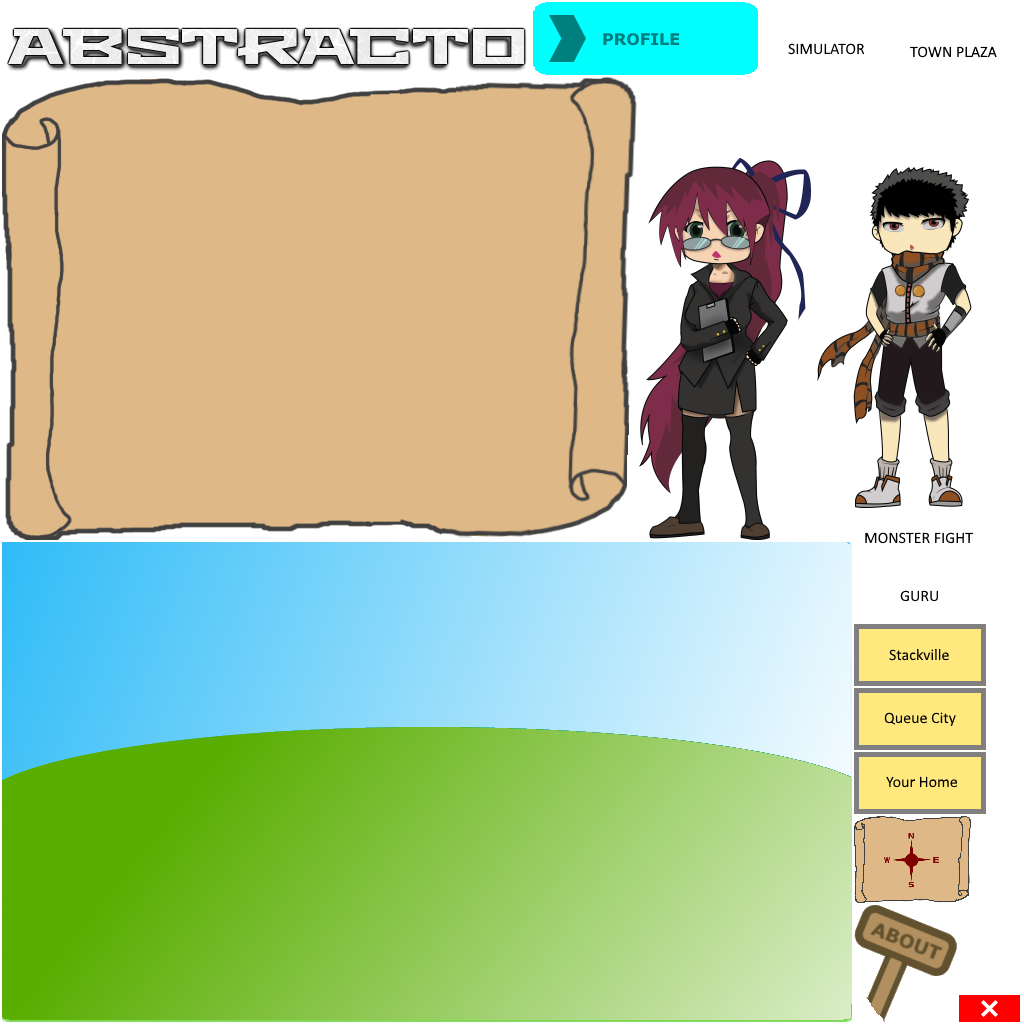
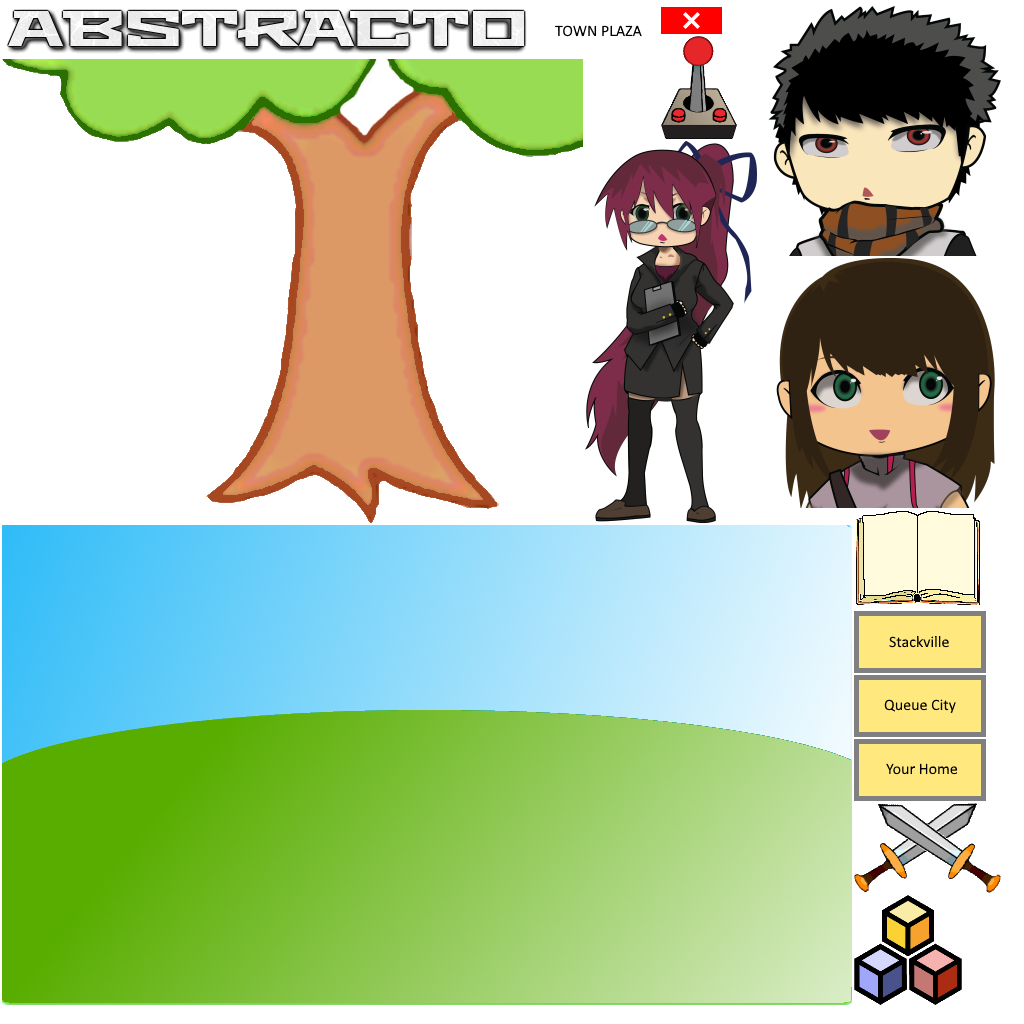
Updated assets

diff --git a/core/src/ics/yudzeen/abstracto/utils/Assets.java b/core/src/ics/yudzeen/abstracto/utils/Assets.java
@@ -136,11 +136,12 @@ public class Assets implements AssetErrorListener, Disposable {
         // Home Screen
         public AtlasRegion map;
 
-        // ADT Screen
-        public AtlasRegion guru;
+        // ADT screens
+        public AtlasRegion applications;
+        public AtlasRegion duel;
+        public AtlasRegion school;  // unnused
         public AtlasRegion simulator;
-        public AtlasRegion townplaza;
-        public AtlasRegion monsterfight;
+        public AtlasRegion book;
 
         public AtlasRegion forward_arrow;
         public AtlasRegion back;
@@ -150,10 +151,12 @@ public class Assets implements AssetErrorListener, Disposable {
             start = atlas.findRegion("button_start");
             about = atlas.findRegion("button_about");
             map = atlas.findRegion("world_map");
-            guru = atlas.findRegion("button_guru");
-            simulator = atlas.findRegion("button_simulator");
-            townplaza = atlas.findRegion("button_townplaza");
-            monsterfight = atlas.findRegion("button_monsterfight");
+
+            applications = atlas.findRegion("applications");
+            duel = atlas.findRegion("duel");
+            school = atlas.findRegion("school");
+            simulator = atlas.findRegion("simulator");
+            book = atlas.findRegion("book");
 
             town_icon = atlas.findRegion("town_icon");
         }
@@ -184,6 +187,12 @@ public class Assets implements AssetErrorListener, Disposable {
         public AtlasRegion teacher;
         public AtlasRegion old_guy;
 
+        // mugshots
+        public AtlasRegion male_mugshot;
+        public AtlasRegion female_mugshot;
+        public AtlasRegion teacher_mugshot;
+        public AtlasRegion old_guy_mugshot;
+
         public AssetImages(TextureAtlas atlas) {
             grassland = atlas.findRegion("grassland");
             tree = atlas.findRegion("tree");
@@ -192,6 +201,11 @@ public class Assets implements AssetErrorListener, Disposable {
             female = atlas.findRegion("female");
             teacher = atlas.findRegion("teacher");
             old_guy = atlas.findRegion("old_guy");
+
+            male_mugshot = atlas.findRegion("male_mugshot");
+            female_mugshot = atlas.findRegion("female_mugshot");
+            teacher_mugshot = atlas.findRegion("teacher_mugshot");
+            old_guy_mugshot = atlas.findRegion("old_guy_mugshot");
 
             title_main = atlas.findRegion("title_main");
             title_map = atlas.findRegion("title_map");
@@ -205,8 +219,6 @@ public class Assets implements AssetErrorListener, Disposable {
             cloud01 = atlas.findRegion("cloud01");
             cloud02 = atlas.findRegion("cloud02");
             cloud03 = atlas.findRegion("cloud03");
-
-
         }
     }
 
